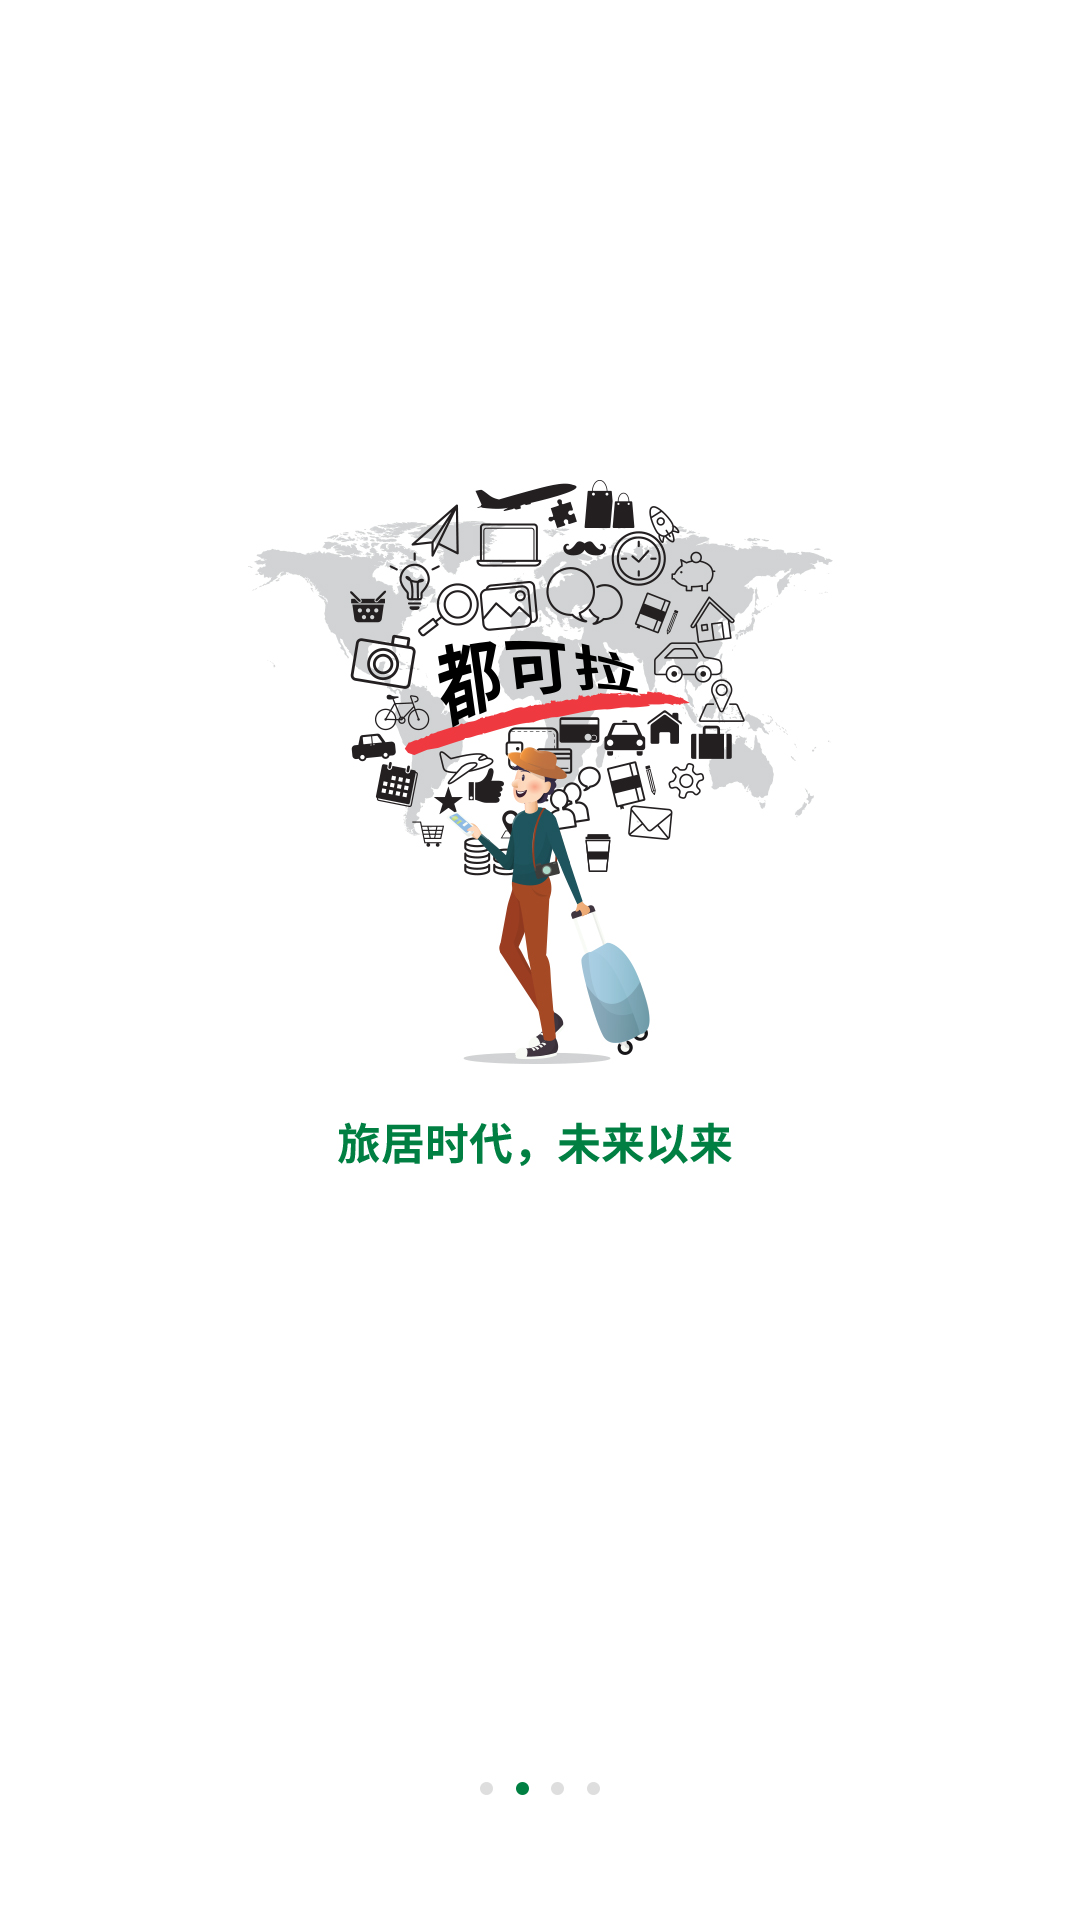
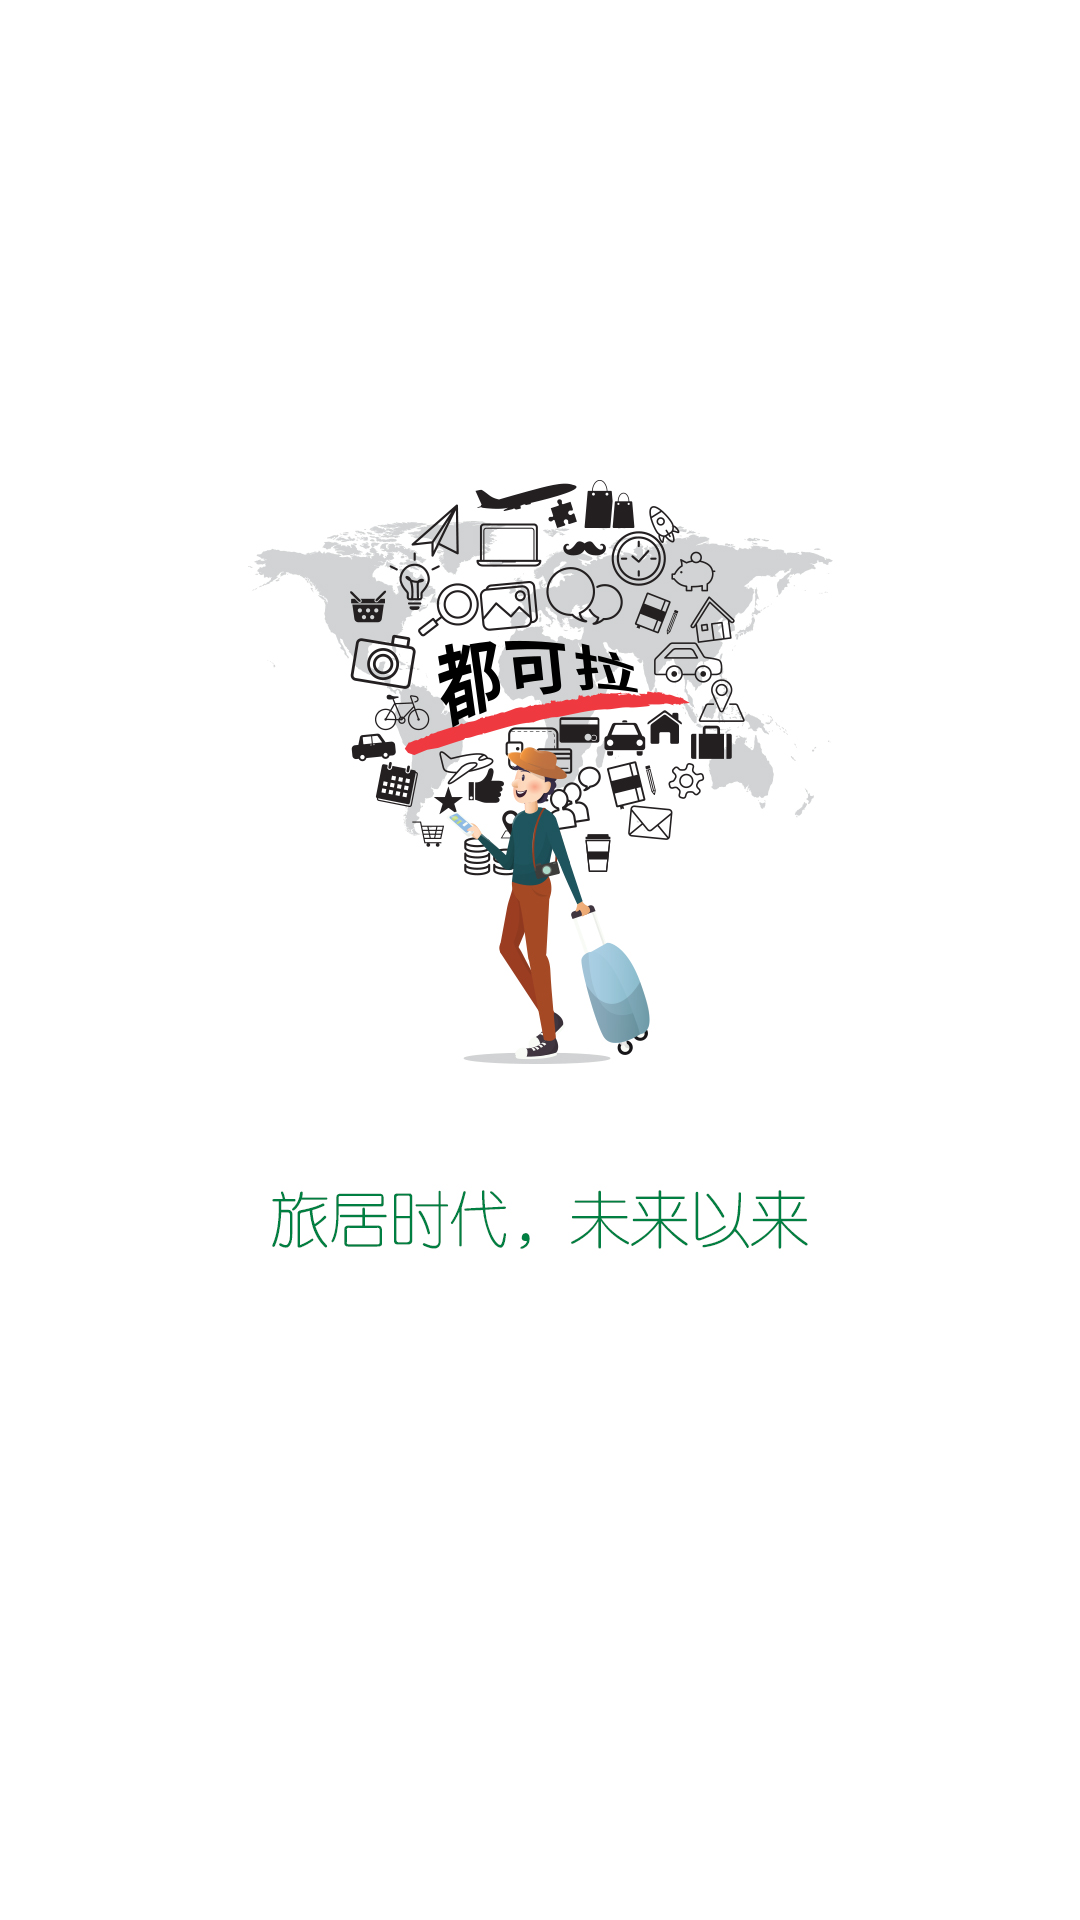
文字；引导页图片样式

Changed region(s): [[0.2444, 0.5625, 0.4889, 0.6562], [0.5194, 0.5625, 0.7333, 0.6562]]

diff --git a/src/components/welcome.vue b/src/components/welcome.vue
@@ -1,30 +1,30 @@
 <template>
-    <transition name="fade">
-  <div class="welcome">
-    <swiper :height="height + 'px'" :show-dots="false">
-      <swiper-item>
-        <div class="wel-img" :style="'background-image: url('+ require('../assets/wc0.jpg') +');'">
-          <div class="wel-bt wel-bt-skip" @click="hideWelcome">跳过</div>
-        </div>
-      </swiper-item>
-      <swiper-item>
-        <div class="wel-img" :style="'background-image: url('+ require('../assets/wc1.jpg') +');'">
-          <div class="wel-bt wel-bt-skip" @click="hideWelcome">跳过</div>
-        </div>
-      </swiper-item>
-      <swiper-item>
-        <div class="wel-img" :style="'background-image: url('+ require('../assets/wc2.jpg') +');'">
-          <div class="wel-bt wel-bt-skip" @click="hideWelcome">跳过</div>
-        </div>
-      </swiper-item>
-      <swiper-item>
-        <div class="wel-img" :style="'background-image: url('+ require('../assets/wc3.jpg') +');'">
-          <div class="wel-bt wel-bt-big" @click="hideWelcome">开启你的旅居时代</div>
-        </div>
-      </swiper-item>
-    </swiper>
-  </div>
-    </transition>
+  <transition name="fade">
+    <div class="welcome">
+      <swiper :height="height + 'px'" dots-position="center" dots-class="swp-dots">
+        <swiper-item>
+          <div class="wel-img" :style="'background-image: url('+ require('../assets/wc0.jpg') +');'">
+            <div class="wel-bt wel-bt-skip" @click="hideWelcome">跳过</div>
+          </div>
+        </swiper-item>
+        <swiper-item>
+          <div class="wel-img" :style="'background-image: url('+ require('../assets/wc1.jpg') +');'">
+            <div class="wel-bt wel-bt-skip" @click="hideWelcome">跳过</div>
+          </div>
+        </swiper-item>
+        <swiper-item>
+          <div class="wel-img" :style="'background-image: url('+ require('../assets/wc2.jpg') +');'">
+            <div class="wel-bt wel-bt-skip" @click="hideWelcome">跳过</div>
+          </div>
+        </swiper-item>
+        <swiper-item>
+          <div class="wel-img" :style="'background-image: url('+ require('../assets/wc3.jpg') +');'">
+            <div class="wel-bt wel-bt-big" @click="hideWelcome">开启你的旅居时代</div>
+          </div>
+        </swiper-item>
+      </swiper>
+    </div>
+  </transition>
 </template>
 <script>
 import {SwiperItem} from 'vux'
@@ -43,7 +43,7 @@ export default {
   }
 }
 </script>
-<style scoped>
+<style>
 .welcome{
   position: fixed;
   width: 100%;
@@ -77,5 +77,8 @@ export default {
   position: absolute;
   top: 6%;
   right: 8%;
+}
+.welcome .vux-slider .swp-dots{
+  bottom: 50px;
 }
 </style>

diff --git a/src/pages/pay-public.vue b/src/pages/pay-public.vue
@@ -1,11 +1,11 @@
 <template>
   <div>
     <d-header>对公账户</d-header>
-    <div class="cell">都克拉账户</div>
+    <div class="cell">都可拉账户</div>
     <div class="group">
       <div class="cell">
         <div class="row-gap">
-          <span class="gray">用户名：</span>浙江都克拉网络科技有限公司
+          <span class="gray">用户名：</span>浙江都可拉网络科技有限公司
         </div>
         <div class="row-gap">
           <span class="gray">银行：</span>中国工商银行
